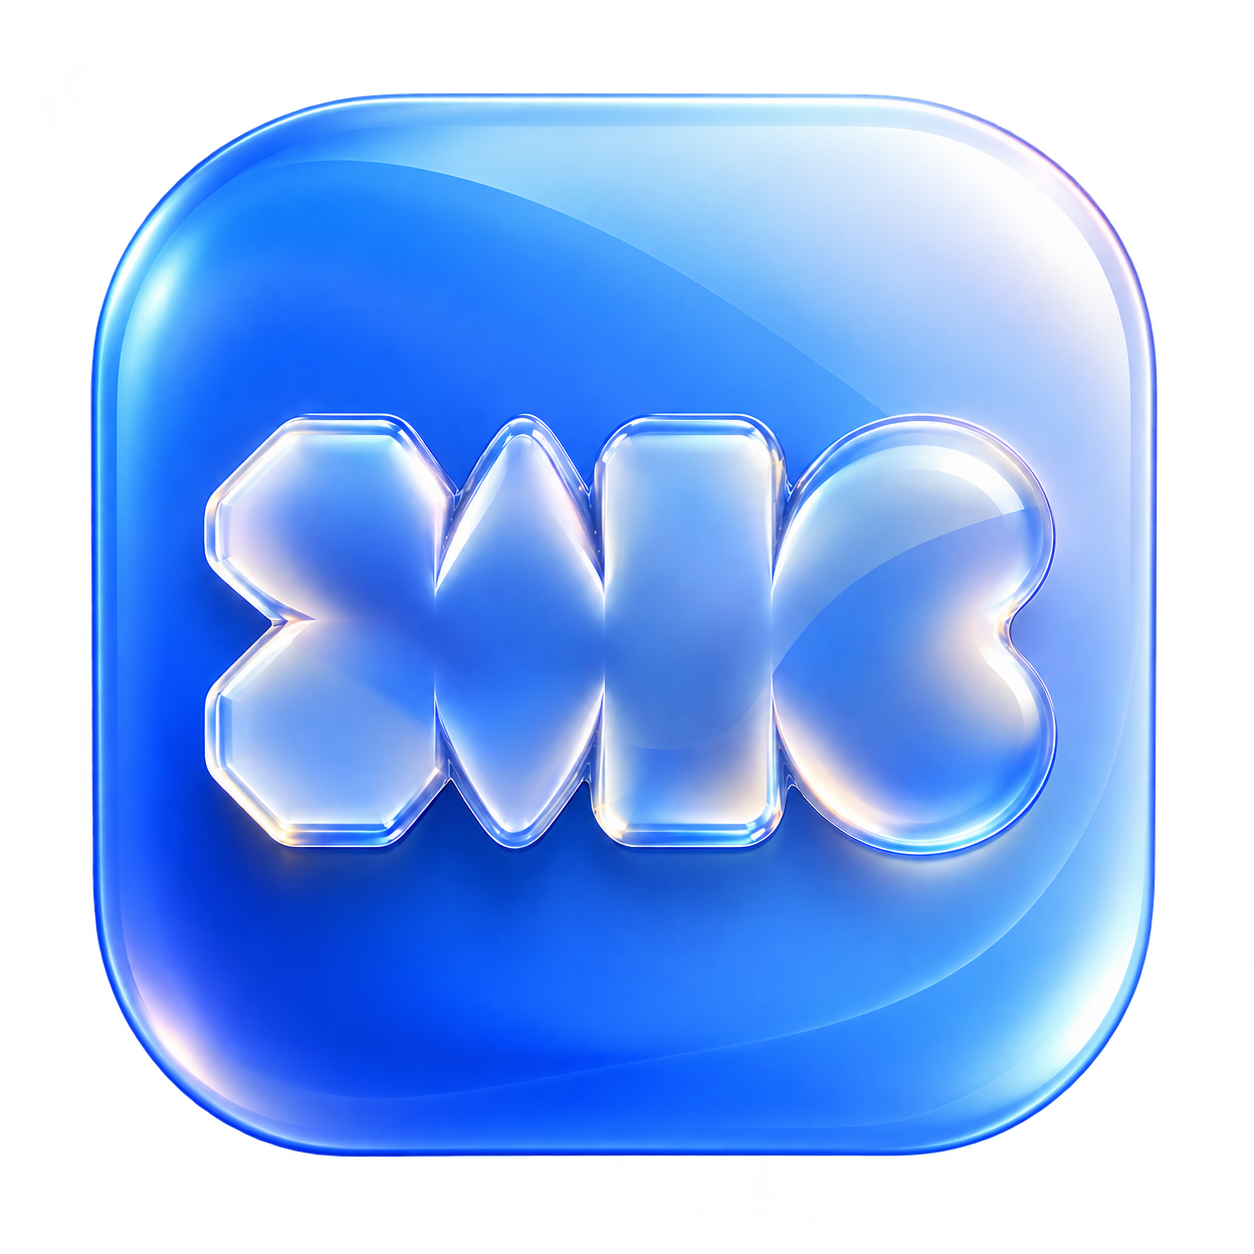
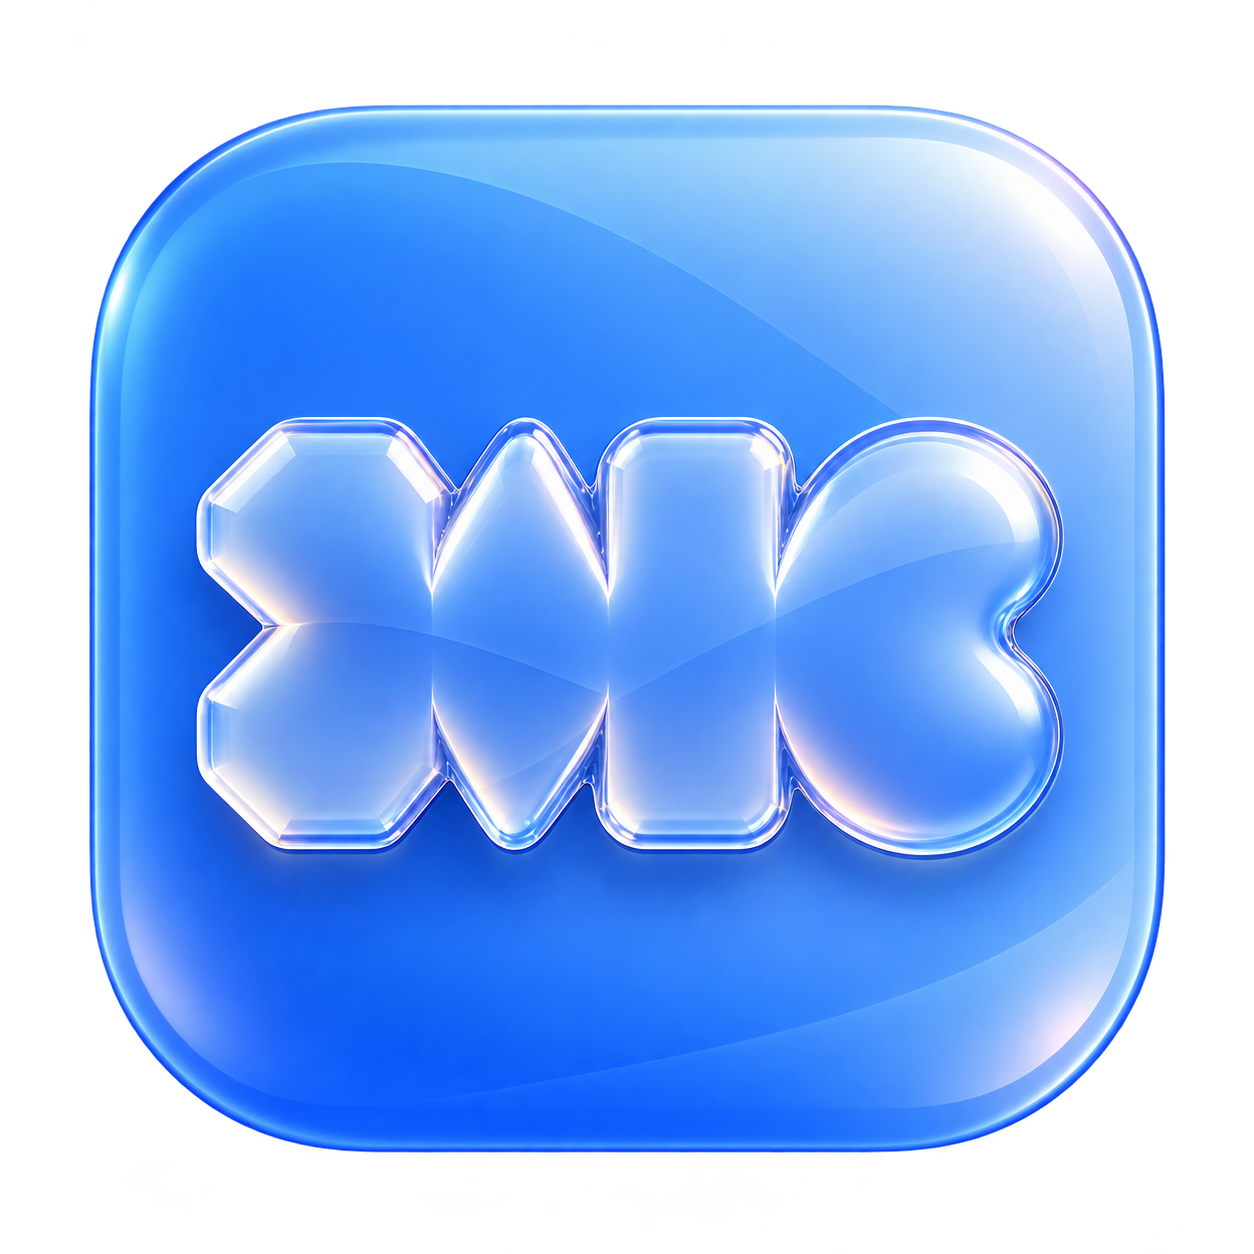
feat(web): nueva versión del icono de la app
Producto eligió la segunda versión: esquinas más cercanas a las de iOS y
fondo más uniforme. Su baldosa no es del todo cuadrada (1075 × 1047 px),
así que el script la recorta como rectángulo y la encaja sin deformarla.

Claude-Session: https://claude.ai/code/session_01XXBYSJMTrKkzgNPN8J6vh8

diff --git a/apps/web/scripts/pwa-icons.ts b/apps/web/scripts/pwa-icons.ts
@@ -13,7 +13,8 @@ const iconsDir = resolve(scriptDir, "../public/icons");
 const source = readFileSync(resolve(scriptDir, "pwa-icons/app-icon.png")).toString("base64");
 
 // La baldosa dentro del maestro (px del maestro): fuera de ella es transparente.
-const TILE = { x: 93, y: 94, size: 1063 };
+// No es del todo cuadrada; se encaja en el lienzo sin deformarla.
+const TILE = { x: 90, y: 105, w: 1075, h: 1047 };
 
 // - any: la baldosa tal cual, con sus esquinas transparentes.
 // - full-bleed: opaco para iOS. La baldosa ocupa todo el icono y las esquinas
@@ -48,10 +49,11 @@ try {
         if (!ctx) throw new Error("El canvas no ofrece contexto 2d");
         ctx.imageSmoothingQuality = "high";
         const drawTile = (scale: number, blur = 0) => {
-          const side = size * scale;
-          const offset = (size - side) / 2;
+          const k = (size * scale) / Math.max(tile.w, tile.h);
+          const w = tile.w * k;
+          const h = tile.h * k;
           ctx.filter = blur ? `blur(${blur}px)` : "none";
-          ctx.drawImage(image, tile.x, tile.y, tile.size, tile.size, offset, offset, side, side);
+          ctx.drawImage(image, tile.x, tile.y, tile.w, tile.h, (size - w) / 2, (size - h) / 2, w, h);
         };
         if (kind !== "any") drawTile(1.6, size / 12);
         drawTile(kind === "maskable" ? 0.8 : 1);
